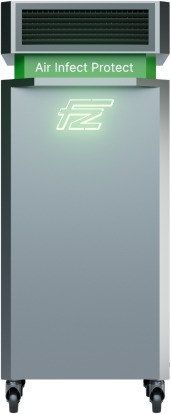
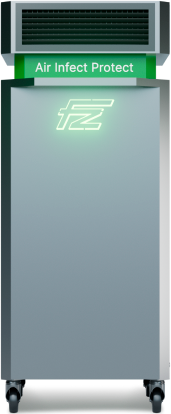
some animation added

Changed region(s): [[0.0877, 0.1159, 0.9357, 0.2319], [0.0585, 0.9275, 0.9064, 1.0], [0.9357, 0.9855, 0.9649, 1.0]]

diff --git a/css/main.css b/css/main.css
@@ -55,6 +55,9 @@ body.lock{
     overflow: hidden;
 }
 
+section{
+    background: white;
+}
 
 .header {
     position: fixed;
@@ -286,7 +289,17 @@ body.lock{
 
 .hero{
     background: #E3E8EE;
+    position: -webkit-sticky;
+    position: sticky;
+    top: 0;
+    z-index: -1;
 }
+
+.hero__container{
+    position: sticky;
+
+}
+
 .hero__body{
     padding-top: 100px;
 }
@@ -328,17 +341,29 @@ body.lock{
     text-align: center;
 }
 
+.hero__video-block{
+    position: sticky;
+    top: 100px;
+}
+
 .hero__video-block video{
     width: 100%;
 }
 
 .youtube_video{
+    position: absolute;
+    top: 0;
+    left: 0;
     width: 100%;
     height: 100%;
 }
 
 .video__block{
-    height: 1070px;
+    position: relative;
+    padding-bottom: 56.25%;
+    padding-top: 30px;
+    height: 0;
+    overflow: hidden;
 }
 
 .footer{
@@ -352,7 +377,7 @@ body.lock{
 .wrapper{
     display: flex;
     flex-direction: column;
-    overflow: hidden;
+    /* overflow: hidden; */
     min-height: 100%;
 }
 
